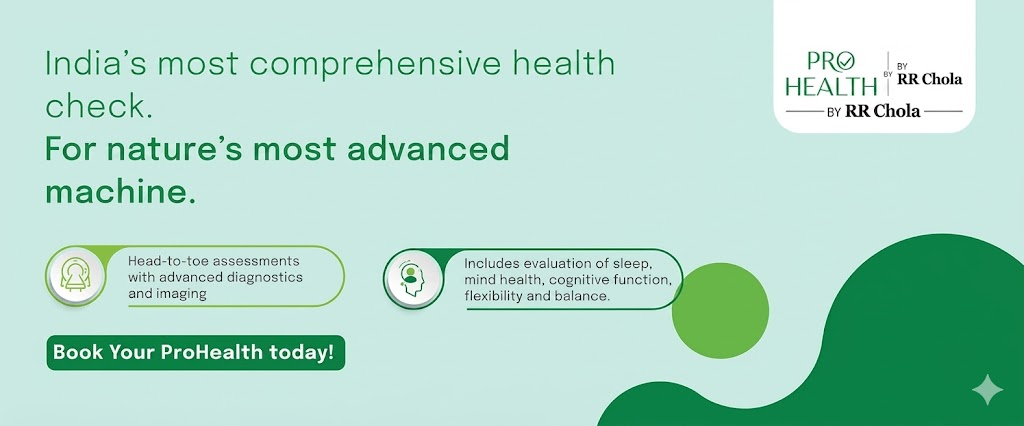
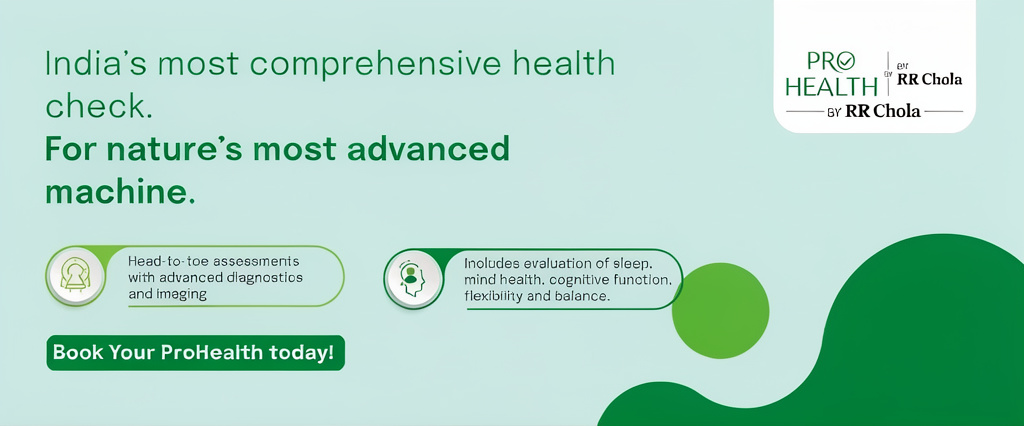
herosectionupdated

diff --git a/index.html b/index.html
@@ -2269,7 +2269,7 @@
             <div
                 class="relative w-full rounded-[14px] shadow-lg overflow-hidden flex items-center justify-center bg-transparent group mb-2 md:mb-0">
                 <img class="hero-slide relative w-full h-auto md:h-[450px] lg:h-[500px] xl:h-[550px] 2xl:h-[600px] object-cover transition-opacity duration-700 opacity-100"
-                    data-hero-slide alt="Hero Banner 1" src="assests/hero-1.png">
+                    data-hero-slide alt="Hero Banner 1" src="assests/hero-1.jpg">
                 <img class="hero-slide absolute top-0 left-0 w-full h-full object-cover transition-opacity duration-700 opacity-0"
                     data-hero-slide alt="Hero Banner 2" src="assests/hero-2.png">
 
